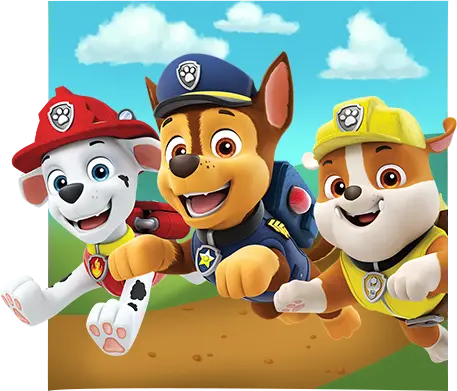
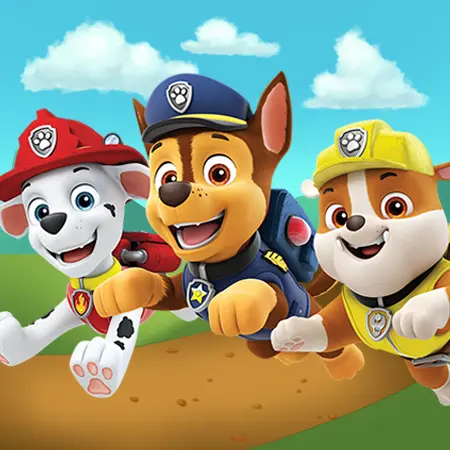
remove css related to dots for carousel as no longer used, simplify and make spacing css more consistent for each section, adjust parents will love activities styling to accomodate new square images

diff --git a/styles/styles.scss b/styles/styles.scss
@@ -48,11 +48,16 @@ h1,h2,h3 {
     flex-flow: column nowrap;
     align-items: center;
 
+    padding-bottom: $space-section-padding-mobile;
+
     @include desktop-query {
+
         flex-flow: row nowrap;
         align-items:flex-start;
         justify-content: center;
         gap: 40px;
+
+        padding-bottom: $space-section-padding-tablet;
     }
 
     &__info {
@@ -238,7 +243,7 @@ h1,h2,h3 {
 }
 .activities {
     padding: $space-section-padding-mobile 0;
-    margin:  $space-section-padding-mobile 0;
+    // margin:  $space-section-padding-mobile 0;
     background-color: $col-activities-background;
     // display: flex;
     // flex-direction: column;
@@ -249,7 +254,7 @@ h1,h2,h3 {
 
     @include tablet-query {
         padding: $space-section-padding-tablet 0;
-        margin:  $space-section-padding-tablet 0;
+        //margin:  $space-section-padding-tablet 0;
     }
 
     &__title {
@@ -311,51 +316,19 @@ h1,h2,h3 {
     }
 }
 
-// Dots navigation on the Activities carousel
-.slick-dots {
-    display: flex !important; // override app's built-in inline styling
-    justify-content: center;
-    gap: 1.5rem;
-    
-    list-style: none;
-    margin-top: $space-mobile-between*1.5;
-    
-    @include tablet-query {
-        margin-top: $space-mobile-between*2;
-    }
-
-    & li button {
-        font-size: 0;
-        line-height: 0;
-        color: $col-grey-mid;
-
-        border-radius: 100%;
-        height: 0.7rem;
-        width: 0.7rem;
-
-        border: none;
-        background-color: $col-grey-mid;
-
-        @include tablet-query {
-            height: 1rem;
-            width: 1rem;
-        }
-    }
-    & li.slick-active button {
-        background-color:  $col-brand-primary;
-        color: $col-brand-primary;
-    }
-}
-
 .features {
-    // padding: $space-section-padding-mobile 0;
-    margin:  $space-section-padding-mobile 0;
+    padding: $space-section-padding-mobile 0;
+    //margin:  $space-section-padding-mobile 0;
     display: flex;
     flex-direction: column;
     align-items: center;
     gap: $space-section-padding-mobile;
 
     overflow: hidden;
+
+    @include tablet-query {
+        padding: $space-section-padding-tablet 0;
+    }
 
     &__title {
         width: 20rem;
@@ -380,7 +353,7 @@ h1,h2,h3 {
             max-width: 450px;
 
             @include tablet-query {
-                gap: $space-mobile-between*2.5 0;
+                gap: $space-mobile-between*4.5 $space-mobile-between*2; // $space-mobile-between*2.5 0;
                 max-width: 1000px;
             }
         }
@@ -392,11 +365,11 @@ h1,h2,h3 {
         gap: $space-mobile-between;
 
         @include tablet-query {
-            width: 23rem;
+            width: 22rem; //23rem;
         }
 
         &-image {
-            width: 100%;
+            width: 85%; // 100%;
             object-fit: contain;
 
             @include tablet-query {

diff --git a/styles/styles.css b/styles/styles.css
@@ -66,6 +66,7 @@ h1, h2, h3 {
   display: flex;
   flex-flow: column nowrap;
   align-items: center;
+  padding-bottom: 2.5rem;
 }
 @media screen and (min-width: 1023px) {
   .header {
@@ -73,6 +74,7 @@ h1, h2, h3 {
     align-items: flex-start;
     justify-content: center;
     gap: 40px;
+    padding-bottom: 3.75rem;
   }
 }
 .header__info {
@@ -246,14 +248,12 @@ h1, h2, h3 {
 
 .activities {
   padding: 2.5rem 0;
-  margin: 2.5rem 0;
   background-color: #e8f3f7;
   overflow: hidden;
 }
 @media screen and (min-width: 768px) {
   .activities {
     padding: 3.75rem 0;
-    margin: 3.75rem 0;
   }
 }
 .activities__title {
@@ -313,46 +313,18 @@ h1, h2, h3 {
   }
 }
 
-.slick-dots {
-  display: flex !important;
-  justify-content: center;
-  gap: 1.5rem;
-  list-style: none;
-  margin-top: 1.40625rem;
-}
-@media screen and (min-width: 768px) {
-  .slick-dots {
-    margin-top: 1.875rem;
-  }
-}
-.slick-dots li button {
-  font-size: 0;
-  line-height: 0;
-  color: #B2B4B2;
-  border-radius: 100%;
-  height: 0.7rem;
-  width: 0.7rem;
-  border: none;
-  background-color: #B2B4B2;
-}
-@media screen and (min-width: 768px) {
-  .slick-dots li button {
-    height: 1rem;
-    width: 1rem;
-  }
-}
-.slick-dots li.slick-active button {
-  background-color: #00a3e0;
-  color: #00a3e0;
-}
-
 .features {
-  margin: 2.5rem 0;
+  padding: 2.5rem 0;
   display: flex;
   flex-direction: column;
   align-items: center;
   gap: 2.5rem;
   overflow: hidden;
+}
+@media screen and (min-width: 768px) {
+  .features {
+    padding: 3.75rem 0;
+  }
 }
 .features__title {
   width: 20rem;
@@ -384,17 +356,17 @@ h1, h2, h3 {
 }
 @media screen and (min-width: 768px) {
   .features__item-box {
-    gap: 2.34375rem 0;
+    gap: 4.21875rem 1.875rem;
     max-width: 1000px;
   }
 }
 @media screen and (min-width: 768px) {
   .features__item {
-    width: 23rem;
+    width: 22rem;
   }
 }
 .features__item-image {
-  width: 100%;
+  width: 85%;
   -o-object-fit: contain;
      object-fit: contain;
 }
